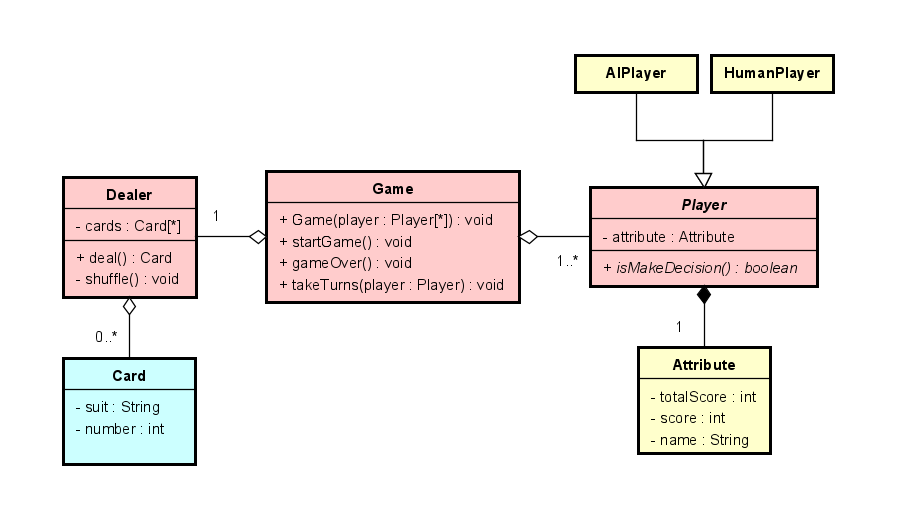
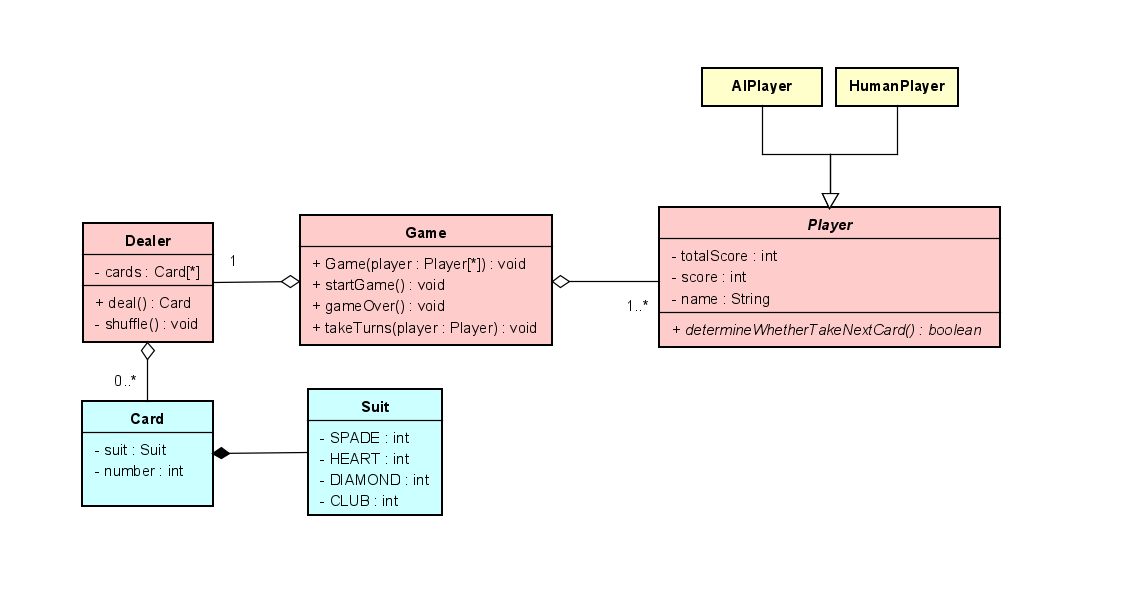
Rewrite determineWhetherTakeNextCard() and takeTurns()

Changed region(s): [[0.0608, 0.0902, 0.9121, 0.9023]]

diff --git a/Chaoyuuu/21點撲克牌遊戲/src/game/Game.java b/Chaoyuuu/21點撲克牌遊戲/src/game/Game.java
@@ -1,10 +1,10 @@
 package game;
 
-import bank.Dealer;
+import dealer.Card;
+import dealer.Dealer;
 import player.Player;
 import utils.SortPlayerTotalScore;
 
-import java.util.Collections;
 import java.util.List;
 
 import static utils.Delay.delay;
@@ -20,15 +20,15 @@ public class Game {
     public void startGame() {
         resetScore();
         for (Player player : players) {
-            System.out.printf("\n輪到 %s 了 !!\n", player.getPlayerName());
-            player.makeDecision(dealer);
-            System.out.printf("%s 得到了 .. %d分\n", player.getPlayerName(), player.getPlayerScore());
+            System.out.printf("\n輪到 %s 了 !!\n", player.getName());
+            takeTurns(player);
+            System.out.printf("%s 得到了 .. %d分\n", player.getName(), player.getScore());
         }
 
         //print winner
         Player winner = whoIsWinner();
         delay(400);
-        System.out.printf("* * %s是贏家，獲得一分 * *\n\n", winner.getPlayerName());
+        System.out.printf("* * %s是贏家，獲得一分 * *\n\n", winner.getName());
     }
 
     private void resetScore() {
@@ -41,12 +41,32 @@ public class Game {
         Player winner;
         winner = players.get(0);
         for (Player player : players) {
-            if (winner.getPlayerScore() < player.getPlayerScore())
+            if (winner.getScore() < player.getScore())
                 winner = player;
         }
 
-        winner.setPlayerTotalScore(1);
+        winner.setTotalScore(1);
         return winner;
+    }
+
+    private void takeTurns(Player player) {
+        Card card;
+        boolean hit = true;  //get one card in the first round
+        boolean alive = true;
+
+        while (hit && alive) {
+            card = dealer.deal();
+            System.out.printf("翻開了 .... %s %d\n", card.getSuit(), card.getNumber());
+            player.setScore(card.getNumber());
+
+            if (player.isOverTwentyOne()) {  //over, get zero point
+                alive = false;
+            } else {
+                System.out.printf("請問 %s 要翻開下一張牌嗎(y/n)? ", player.getName());
+                hit = player.determineWhetherTakeNextCard();
+            }
+        }
+
     }
 
     public void gameOver() {
@@ -55,7 +75,7 @@ public class Game {
 
         int rank = 1;
         for (Player player : players) {
-            System.out.printf("第%d名: %s\n", rank, player.getPlayerName());
+            System.out.printf("第%d名: %s\n", rank, player.getName());
             rank++;
         }
     }

diff --git a/Chaoyuuu/21點撲克牌遊戲/src/player/Player.java b/Chaoyuuu/21點撲克牌遊戲/src/player/Player.java
@@ -1,47 +1,47 @@
 package player;
-import bank.*;
 
 public abstract class Player {
-    private Attribute attribute;
+    private int totalScore = 0;
+    private int score = 0;
+    private String name;
 
-    public Player(Attribute attribute) {
-        this.attribute = attribute;
+    public Player(String name) {
+        this.name = name;
     }
 
-    public String getPlayerName() {
-        return attribute.getName();
+    public String getName() {
+        return name;
+    }
+
+    public int getScore() {
+        return score;
+    }
+
+    public void setScore(int cardNum) {
+        int newScore = score + cardNum;
+        this.score = newScore;
+    }
+
+    public int getTotalScore() {
+        return totalScore;
+    }
+
+    public void setTotalScore(int score) {
+        int newScore = totalScore + score;
+        this.totalScore = newScore;
     }
 
     public void resetPlayerScore() {
-        attribute.setScore(0);
+        score = 0;
     }
 
-    public int getPlayerScore() {
-        return  attribute.getScore();
-    }
-
-    public void setPlayerScore(int cardNum) {
-        int newScore = attribute.getScore() + cardNum;
-        attribute.setScore(newScore);
-    }
-
-    public int getPlayerTotalScore() {
-        return  attribute.getTotalScore();
-    }
-
-    public void setPlayerTotalScore(int score) {
-        int newScore = attribute.getTotalScore() + score;
-        attribute.setTotalScore(newScore);
-    }
-
-    public boolean isOverTwentyOne(){
-        int score = attribute.getScore();
-        if(score > 21){
-            attribute.setScore(0);
+    public boolean isOverTwentyOne() {
+        if (score > 21) {
+            resetPlayerScore();
             return true;
         }
         return false;
     }
 
-    public abstract void makeDecision(Dealer dealer);
+    public abstract boolean determineWhetherTakeNextCard();
 }

diff --git a/Chaoyuuu/21點撲克牌遊戲/src/player/AIPlayer.java b/Chaoyuuu/21點撲克牌遊戲/src/player/AIPlayer.java
@@ -1,40 +1,25 @@
 package player;
-import bank.*;
+
 import static utils.Delay.delay;
 
 public class AIPlayer extends Player {
-    public AIPlayer(Attribute attribute) {
-        super(attribute);
+
+    public AIPlayer(String name) {
+        super(name);
     }
 
     @Override
-    public void makeDecision(Dealer dealer) {
-        Card card;
-
-        //get one card for the first round
-        card = dealer.deal();
-        setPlayerScore(card.getNumber());
-        System.out.printf( "翻開了 .... %s %d\n請問 %s 要翻開下一張牌嗎(y/n)? ", card.getSuit(), card.getNumber(), this.getPlayerName());
-
-        while (isHit()){
-            System.out.println("y");
-            card = dealer.deal();
-            setPlayerScore(card.getNumber());
-            if(isOverTwentyOne()){  //over, get zero point
-                System.out.printf( "翻開了 .... %s %d\n", card.getSuit(), card.getNumber());
-                return;
-            } else {
-                System.out.printf( "翻開了 .... %s %d\n請問 %s 要翻開下一張牌嗎(y/n)? ", card.getSuit(), card.getNumber(), this.getPlayerName());
-            }
-        }
-        System.out.println("n");
-        return;
-    }
-
-    private boolean isHit(){
-        int random = (int)(Math.random() * 100);
+    public boolean determineWhetherTakeNextCard() {
+        int random = (int) (Math.random() * 100);
         int mod = random % 2;
         delay(200);
+
+        if (mod == 1)
+            System.out.println("y");
+        else
+            System.out.println("n");
+
         return (mod == 1);
     }
+
 }

diff --git a/Chaoyuuu/21點撲克牌遊戲/src/dealer/Dealer.java b/Chaoyuuu/21點撲克牌遊戲/src/dealer/Dealer.java
@@ -1,0 +1,56 @@
+package dealer;
+
+import java.util.ArrayList;
+
+import static utils.Delay.delay;
+
+public class Dealer {
+    private ArrayList<Card> cards = new ArrayList<>();
+
+    public Dealer() {
+        shuffle();
+    }
+
+    private void shuffle() {
+        ArrayList<Card> initCards = initCard();
+        int size = initCards.size();
+
+        while (size != 0) {
+            int random = (int) (Math.random() * size);
+            Card card = initCards.remove(random);
+            cards.add(card);
+            size--;
+        }
+    }
+
+    private ArrayList<Card> initCard() {
+        ArrayList<Card> initCards = new ArrayList<>();
+
+        for (int num = 1; num <= 13; num++) {
+            Card cardSpade = new Card(Suit.SPADE, num);
+            Card cardHeart = new Card(Suit.HEART, num);
+            Card cardDiamond = new Card(Suit.DIAMOND, num);
+            Card cardClub = new Card(Suit.CLUB, num);
+
+            initCards.add(cardDiamond);
+            initCards.add(cardHeart);
+            initCards.add(cardSpade);
+            initCards.add(cardClub);
+        }
+        return initCards;
+    }
+
+    public Card deal() {
+        if (cards.isEmpty()) {
+            System.out.println("**** 沒有牌了，洗牌中請稍後 ****");
+            delay(400);
+            shuffle();
+        }
+
+        int size = cards.size();
+        int random = (int) (Math.random() * size);
+        return cards.remove(random);
+    }
+
+}
+

diff --git a/Chaoyuuu/21點撲克牌遊戲/src/game/Main.java b/Chaoyuuu/21點撲克牌遊戲/src/game/Main.java
@@ -1,5 +1,7 @@
 package game;
+
 import player.*;
+
 import java.util.ArrayList;
 import java.util.List;
 import java.util.Scanner;
@@ -7,6 +9,7 @@ import java.util.Scanner;
 public class Main {
     public static void main(String[] args) {
         List<Player> players = initPlayers();
+        printPlayerOrder(players);
         Game game = new Game(players);
 
         for (int i = 0; i < 3; i++) {
@@ -33,12 +36,12 @@ public class Main {
         for (int i = 0; i < humanPlayerNum; i++) {
             System.out.printf("請輸入第%d位玩家的名字: ", i);
             String name = scanner.nextLine();
-            Player humanPlayer = new HumanPlayer(new Attribute(name));
+            Player humanPlayer = new HumanPlayer(name);
             initPlayers.add(humanPlayer);
         }
 
         for (int i = humanPlayerNum; i < humanPlayerNum + aiPlayerNum; i++) {
-            Player AIPlayer = new AIPlayer(new Attribute("AI-" + i));
+            Player AIPlayer = new AIPlayer("AI-" + i);
             initPlayers.add(AIPlayer);
         }
 
@@ -56,5 +59,13 @@ public class Main {
             totalNum--;
         }
         return players;
+    }
+
+    public static void printPlayerOrder(List<Player> players) {
+        System.out.print("順序 : ");
+        for(Player player:players){
+            System.out.printf("%s -> ", player.getName());
+        }
+        System.out.printf("\n\n");
     }
 }

diff --git a/Chaoyuuu/21點撲克牌遊戲/src/player/HumanPlayer.java b/Chaoyuuu/21點撲克牌遊戲/src/player/HumanPlayer.java
@@ -1,32 +1,17 @@
 package player;
 
-import bank.*;
-
 import java.util.Scanner;
 
 public class HumanPlayer extends Player {
-    public HumanPlayer(Attribute attribute) {
-        super(attribute);
+
+    public HumanPlayer(String name) {
+        super(name);
     }
 
     @Override
-    public void makeDecision(Dealer dealer) {
-        Card card;
-        boolean hit = true;
+    public boolean determineWhetherTakeNextCard() {
         Scanner scanner = new Scanner(System.in);
-
-        while (hit) {
-            card = dealer.deal();
-            setPlayerScore(card.getNumber());
-
-            if (isOverTwentyOne()) {  //over, get zero point
-                System.out.printf("翻開了 .... %s %d\n", card.getSuit(), card.getNumber());
-                return;
-            } else {
-                System.out.printf("翻開了 .... %s %d\n請問 %s 要翻開下一張牌嗎(y/n)? ", card.getSuit(), card.getNumber(), this.getPlayerName());
-                hit = scanner.next().equalsIgnoreCase("y");
-            }
-        }
-
+        boolean hit = scanner.next().equalsIgnoreCase("y");
+        return hit;
     }
 }

diff --git a/Chaoyuuu/21點撲克牌遊戲/src/dealer/Card.java b/Chaoyuuu/21點撲克牌遊戲/src/dealer/Card.java
@@ -1,18 +1,16 @@
-package bank;
+package dealer;
 
 public class Card {
-    private String suit;
+    private Suit suit;
     private int number;
 
-    //private or public ??????
-
-    public Card(String suit, int number) {
+    public Card(Suit suit, int number) {
         this.suit = suit;
         this.number = number;
     }
 
     public String getSuit() {
-        return suit;
+        return suit.name();
     }
 
     public int getNumber() {

diff --git a/Chaoyuuu/21點撲克牌遊戲/src/utils/SortPlayerTotalScore.java b/Chaoyuuu/21點撲克牌遊戲/src/utils/SortPlayerTotalScore.java
@@ -7,6 +7,6 @@ import java.util.Comparator;
 public class SortPlayerTotalScore implements Comparator<Player> {
     @Override
     public int compare(Player p1, Player p2) {
-        return p2.getPlayerTotalScore() - p1.getPlayerTotalScore();
+        return p2.getTotalScore() - p1.getTotalScore();
     }
 }

diff --git a/Chaoyuuu/21點撲克牌遊戲/src/utils/Delay.java b/Chaoyuuu/21點撲克牌遊戲/src/utils/Delay.java
@@ -4,6 +4,7 @@ public class Delay {
     public static void delay(long ms) {
         try {
             Thread.sleep(ms);
-        } catch (InterruptedException ignored) { }
+        } catch (InterruptedException ignored) {
+        }
     }
 }

diff --git a/Chaoyuuu/21點撲克牌遊戲/src/dealer/Suit.java b/Chaoyuuu/21點撲克牌遊戲/src/dealer/Suit.java
@@ -1,0 +1,8 @@
+package dealer;
+
+public enum Suit {
+    SPADE,
+    HEART,
+    DIAMOND,
+    CLUB
+}
